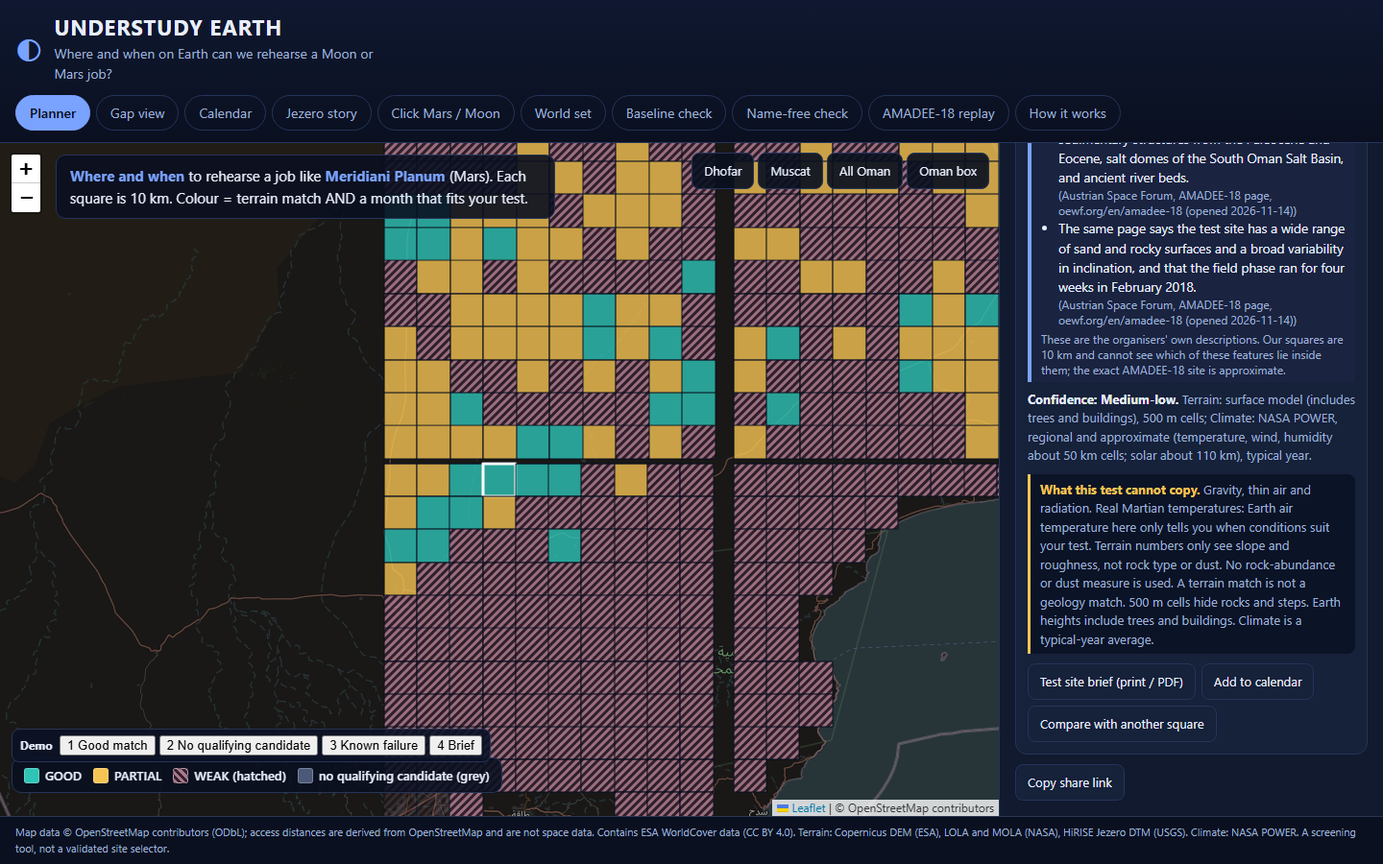
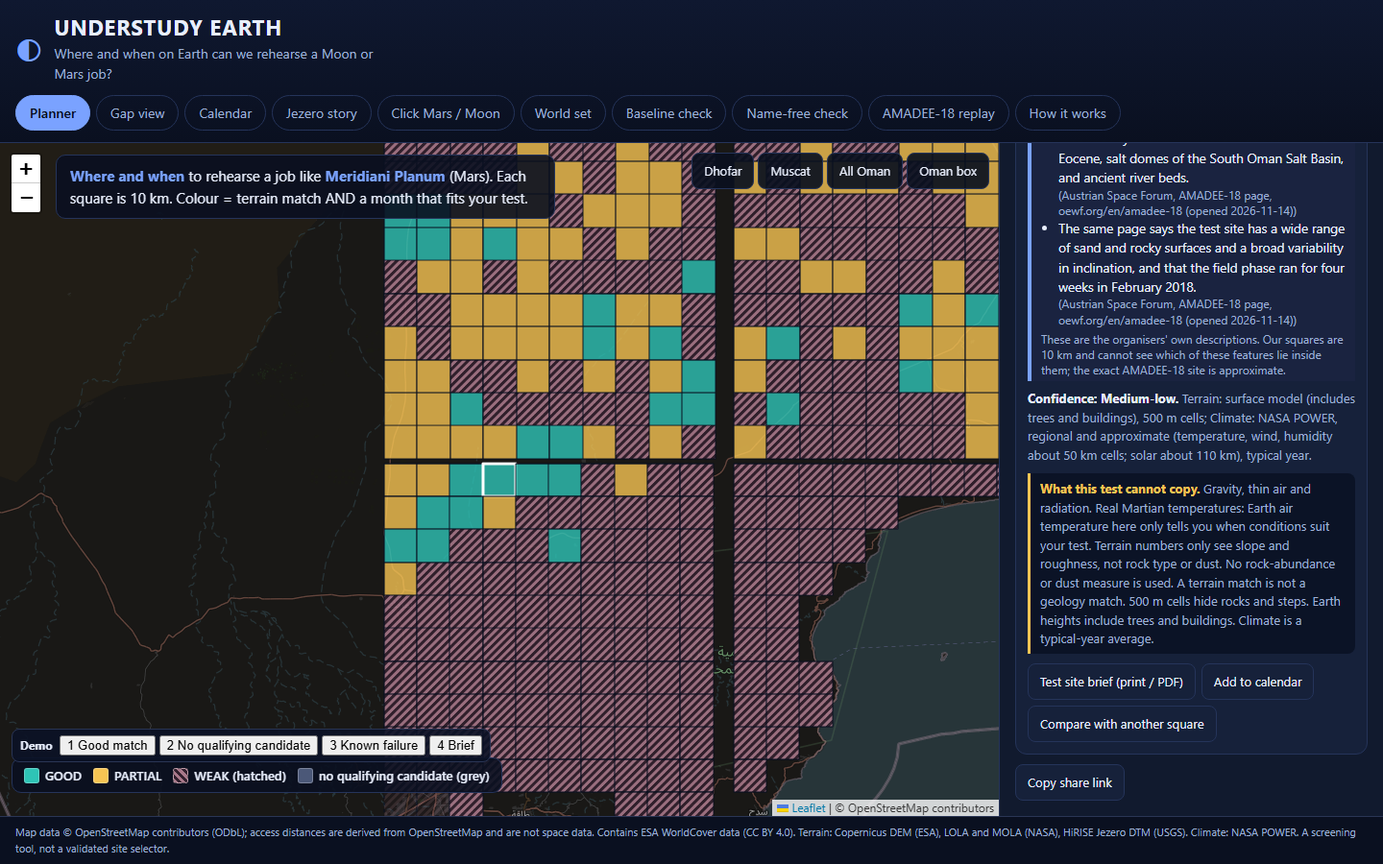
rename Oman to searched area where 90 m data is included, add Jezero verdict sentence, steep-ground caution on click, day-night swing as a scored test need

diff --git a/app/app.js b/app/app.js
@@ -1,17 +1,17 @@
 (function () {
   'use strict';
-  var GROUPS = { oman_muscat: 'Oman (Muscat area)', oman_dhofar: 'Oman (Dhofar)', oman90: 'Oman box, 90 m data (may include neighbouring land)', meteor_crater: 'Meteor Crater area, Arizona (outside Oman)', atacama: 'Atacama / Andes edge, Chile (outside Oman)' };
+  var GROUPS = { oman_muscat: 'Oman (Muscat area)', oman_dhofar: 'Oman (Dhofar)', oman90: 'Searched area, 90 m data (whole Oman box; includes land near the border)', meteor_crater: 'Meteor Crater area, Arizona (outside Oman)', atacama: 'Atacama / Andes edge, Chile (outside Oman)' };
   var N = window.UENeeds, D = {}, SC, map, rects = {}, sel = null, selB = null, cmpNext = false;
-  var st = { cal: [], split: false, noCand: false, nearest: null, weights: { terrain: 1, temp: 1, wind: 1, dry: 1, sun: 1, access: 0 }, target: null, mode: 'both', month: 'best', n: Object.assign({}, N.DEFAULT) };
+  var st = { cal: [], split: false, noCand: false, nearest: null, weights: { terrain: 1, temp: 1, wind: 1, dry: 1, sun: 1, swing: 1, access: 0 }, target: null, mode: 'both', month: 'best', n: Object.assign({}, N.DEFAULT) };
   var $ = function (id) { return document.getElementById(id); };
   var esc = function (s) { return String(s).replace(/[&<>"]/g, function (c) { return { '&': '&amp;', '<': '&lt;', '>': '&gt;', '"': '&quot;' }[c]; }); };
   var LABEL = { match: 'GOOD', partial: 'PARTIAL', gap: 'WEAK', none: 'NO CANDIDATE' };
   var GLABEL = { match: 'MATCH', partial: 'PARTIAL', gap: 'NO QUALIFYING CANDIDATE' };
   var SLOPE_REF = 'Observed reference points, not limits: Curiosity maximum tilt 25.34° through sol 2488 (Rankin et al., JPL, 2019); Opportunity tilt 32° on 2016-03-10 (JPL news, 2016-03-31); Perseverance climbed about 20° on slippery sand (JPL news, 2024-10-28). The slope limit here is user-set.';
   var POWER_NOTE = 'NASA POWER climatology v2.10.1, community RE, years 2001-2025. T2M_MAX and T2M_MIN (2 m air, °C), WS2M (wind, m/s), RH2M (%), ALLSKY_SFC_SW_DWN (sunlight, kWh/m²/day). Temperature, wind and humidity cells are about 50 km (0.5 x 0.625°); solar is about 110 km (1°). Regional and approximate.';
-  var AMADEE_NEEDS = { tlo: 5, thi: 35, wmin: 0, wmax: 12, rhmax: 100, smin: 4 };
+  var AMADEE_NEEDS = { tlo: 5, thi: 35, wmin: 0, wmax: 12, rhmax: 100, smin: 4, swmax: 60 };
   var COL = { match: '#2ec4b6', partial: '#f6c453', gap: '#ff5a5f' };
-  var FIELDS = ['tlo', 'thi', 'wmin', 'wmax', 'rhmax', 'smin', 'limit'];
+  var FIELDS = ['tlo', 'thi', 'wmin', 'wmax', 'rhmax', 'smin', 'swmax', 'limit'];
 
   function load(f, opt) { return fetch('data/' + f).then(function (r) { if (!r.ok) { if (opt) return null; throw new Error(f + ' ' + r.status); } return r.json(); }).catch(function (e) { if (opt) return null; throw e; }); }
   Promise.all([load('meta.json'), load('earth.json'), load('targets.json'), load('results.json'), load('second_check.json'), load('climate_power.json'), load('landcover.json', true), load('baseline.json', true), load('stability.json', true), load('notes.json', true), load('access.json', true), load('jezero.json', true)]).then(function (a) {
@@ -150,6 +150,7 @@
     $('wv').textContent = (n.wmin > 0 ? n.wmin : 0) + ' to ' + (n.wmax >= 12 ? '12+' : n.wmax) + ' m/s';
     $('rv').textContent = n.rhmax >= 100 ? 'not limited' : '≤ ' + n.rhmax + '%';
     $('sv').textContent = n.smin > 0 ? '≥ ' + n.smin + ' kWh/m²/day' : 'not limited';
+    $('swv').textContent = n.swmax < 60 ? '≤ ' + n.swmax + ' °C' : 'not limited';
     $('limval').textContent = n.limit + '°';
   }
 
@@ -188,7 +189,7 @@
 
   function renderAll() {
     recompute(); var t = st.target;
-    $('hook').innerHTML = '<b>Where and when</b> to rehearse a job like <b>' + esc(t.name) + '</b> (' + t.body + '). Each square is 10 km. ' + (st.noCand ? '<b>No qualifying candidate in Oman for this target:</b> squares are grey; the nearest one is outlined. ' : '') +
+    $('hook').innerHTML = '<b>Where and when</b> to rehearse a job like <b>' + esc(t.name) + '</b> (' + t.body + '). Each square is 10 km. ' + (st.noCand ? '<b>No qualifying candidate in the searched area for this target:</b> squares are grey; the nearest one is outlined. ' : '') +
       (st.noCand ? '' : st.mode === 'terrain' ? 'Colour = terrain match.' : (st.mode === 'needs' ? 'Colour = fit to your test needs.' : 'Colour = terrain match AND a month that fits your test.'));
     allSq().forEach(function (e) {
       var rc = rects[e.id]; if (!rc) return;
@@ -225,12 +226,12 @@
     var k0 = SC.gapTier(bo.d), kk = SC.gapTier(shown), improved = shown < bo.d;
     $('badge').textContent = GLABEL[kk]; $('badge').className = 'badge ' + (kk === 'gap' ? 'none' : kk);
     $('gcscore').textContent = 'top ' + Math.max(1, Math.round(bo.rank * 100)) + '%';
-    var txt = k0 === 'gap' ? 'No qualifying candidate in Oman for this target (searched area only, not all of Earth). Nearest square is outlined on the map.' : (k0 === 'partial' ? 'Oman is a partial match only.' : 'Oman has a strong terrain match (best fit among the squares we searched).');
-    var sn = stabOf(st.target); if (sn) txt += (sn.threshold_sensitive ? ' THRESHOLD-SENSITIVE: the tier changes with window size, cell size or threshold (' + sn.tiers_seen.map(function (k) { return GLABEL[k]; }).join(' / ') + '); ' : ' ROBUST: same tier in all 8 settings; ') + 'the best Oman square is closer than ' + sn.band_pct[0] + '-' + sn.band_pct[1] + '% of Earth-square pairs.';
-    if (extra.length && improved && kk !== k0) txt = 'Oman alone: ' + GLABEL[k0] + '. With the second site: ' + GLABEL[kk] + '.';
-    else if (extra.length) txt = 'The second site does not improve on Oman here.';
+    var txt = k0 === 'gap' ? 'No qualifying candidate in the searched area for this target (not all of Earth). Nearest square is outlined on the map.' : (k0 === 'partial' ? 'The searched area is a partial match only.' : 'The searched area has a strong terrain match (best fit among the squares we searched).');
+    var sn = stabOf(st.target); if (sn) txt += (sn.threshold_sensitive ? ' THRESHOLD-SENSITIVE: the tier changes with window size, cell size or threshold (' + sn.tiers_seen.map(function (k) { return GLABEL[k]; }).join(' / ') + '); ' : ' ROBUST: same tier in all 8 settings; ') + 'the best square in the searched area is closer than ' + sn.band_pct[0] + '-' + sn.band_pct[1] + '% of Earth-square pairs.';
+    if (extra.length && improved && kk !== k0) txt = 'Searched area alone: ' + GLABEL[k0] + '. With the second site: ' + GLABEL[kk] + '.';
+    else if (extra.length) txt = 'The second site does not improve on the searched area here.';
     $('gctext').textContent = txt;
-    var lines = ['Oman alone: ' + GLABEL[k0] + ' (distance ' + bo.d.toFixed(2) + ')'];
+    var lines = ['Searched area alone: ' + GLABEL[k0] + ' (distance ' + bo.d.toFixed(2) + ')'];
     extra.forEach(function (x) { lines.push(GROUPS[x.g] + ': ' + GLABEL[SC.gapTier(x.b.d)] + ' (distance ' + x.b.d.toFixed(2) + ') at ' + x.b.lat.toFixed(2) + ', ' + x.b.lon.toFixed(2)); });
     $('secondres').innerHTML = lines.map(esc).join('<br>') + '<br><small>Distance: lower is closer. MATCH below ' + D.meta.thr_match_dist.toFixed(2) + ', PARTIAL below ' + D.meta.thr_partial_dist.toFixed(2) + '.</small>';
   }
@@ -252,6 +253,7 @@
       if (k === 'temp') t = c.tmax[m] > n.thi ? 'day max ' + c.tmax[m].toFixed(0) + ' °C above ' + n.thi : 'night min ' + c.tmin[m].toFixed(0) + ' °C below ' + n.tlo;
       else if (k === 'wind') t = 'wind ' + c.wind[m].toFixed(1) + ' m/s outside ' + n.wmin + '-' + n.wmax;
       else if (k === 'dry') t = 'humidity ' + Math.round(c.rh[m]) + '% above ' + n.rhmax + '%';
+      else if (k === 'swing') t = 'day-night swing ' + (c.tmax[m] - c.tmin[m]).toFixed(0) + ' °C above ' + n.swmax + ' °C';
       else t = 'sunlight ' + c.srad[m].toFixed(1) + ' below ' + n.smin + ' kWh/m²/day';
       why.push(N.MON[m] + ': ' + t);
     }
@@ -303,7 +305,7 @@
   function verdictHtml(e) {
     var c = climate(e), m = e._best.length ? e._best[0] : e._fits.indexOf(Math.max.apply(null, e._fits));
     if (st.month !== 'best') m = +st.month;
-    var mf = N.monthFactors(c, m, st.n), f = { terrain: N.terrainFit(SC.distance(e, st.target), D.meta.thr_match_dist, D.meta.thr_partial_dist), temp: mf.temp, wind: mf.wind, dry: mf.dry, sun: mf.sun };
+    var mf = N.monthFactors(c, m, st.n), f = { terrain: N.terrainFit(SC.distance(e, st.target), D.meta.thr_match_dist, D.meta.thr_partial_dist), temp: mf.temp, wind: mf.wind, dry: mf.dry, sun: mf.sun, swing: mf.swing };
     var ac = accessOf(e); if (ac) f.access = Math.round(100 * (1 - Math.max(0, Math.min(1, (ac[0] - 5) / 45))));
     var v = N.fitVerdict(f, st.weights), cf = N.confidenceLevel(e.group.indexOf('oman') === 0, !!e.approx);
     var cls = v.overall >= 75 ? 'match' : (v.overall >= 50 ? 'partial' : 'gap');
@@ -348,7 +350,7 @@
     var second = '';
     var gt = SC.gapTier(bestOf(function (x) { return x.group.indexOf('oman') === 0; }).d);
     if (gt !== 'match') { var alt = bestOf(function (x) { return x.group.indexOf('oman') !== 0; }); if (alt) second = '<p><b>Second-site suggestion:</b> best outside square is ' + esc(GROUPS[alt.group]) + ' at ' + alt.lat.toFixed(2) + ', ' + alt.lon.toFixed(2) + ' (terrain: ' + GLABEL[SC.gapTier(alt.d)] + ').</p>'; }
-    var need = 'Air temperature ' + n.tlo + ' to ' + n.thi + ' °C; wind ' + n.wmin + ' to ' + (n.wmax >= 12 ? '12+' : n.wmax) + ' m/s; humidity ' + (n.rhmax >= 100 ? 'not limited' : '≤ ' + n.rhmax + '%') + '; sunlight ' + (n.smin > 0 ? '≥ ' + n.smin + ' kWh/m2/day' : 'not limited') + '.';
+    var need = 'Air temperature ' + n.tlo + ' to ' + n.thi + ' °C; wind ' + n.wmin + ' to ' + (n.wmax >= 12 ? '12+' : n.wmax) + ' m/s; humidity ' + (n.rhmax >= 100 ? 'not limited' : '≤ ' + n.rhmax + '%') + '; sunlight ' + (n.smin > 0 ? '≥ ' + n.smin + ' kWh/m2/day' : 'not limited') + '; day-night swing ' + (n.swmax < 60 ? '≤ ' + n.swmax + ' °C' : 'not limited') + '.';
     $('brief').innerHTML = '<div class="bar-top"><button data-act="print">Print / save as PDF</button><button data-act="closebrief">Close</button></div>' +
       '<h1>Test Site Brief</h1><p class="sub">Understudy Earth &middot; generated ' + new Date().toISOString().slice(0, 10) + ' &middot; Blue Ember</p>' +
       '<h2>Location</h2><p>' + esc(GROUPS[e.group]) + ', 10 km square centred at ' + e.lat.toFixed(3) + ', ' + e.lon.toFixed(3) + '.</p>' +
@@ -368,7 +370,7 @@
       var a = SC.gapTier(bo), b = SC.gapTier(ba);
       var sn = stabOf(t); rows += '<tr><td>' + esc(t.name) + (sn && sn.threshold_sensitive ? ' <span title="threshold-sensitive">&#9888;</span>' : '') + '<br><small>' + t.body + '</small></td><td><span class="chip ' + a + '">' + GLABEL[a] + '</span></td><td><span class="chip ' + b + '">' + GLABEL[b] + '</span>' + (b !== a ? ' &larr; second site helps' : '') + '</td></tr>';
     });
-    $('gaptable').innerHTML = '<table><tr><th>Target</th><th>Oman only</th><th>+ Meteor Crater, Atacama</th></tr>' + rows + '</table><p class="sub">NO QUALIFYING CANDIDATE = no square we searched is as close to the target as the closest 5% of Earth-square pairs are to each other. It says nothing about places we did not search. &#9888; = threshold-sensitive (tier changes with window size, cell size or threshold).</p>';
+    $('gaptable').innerHTML = '<table><tr><th>Target</th><th>Searched area only</th><th>+ Meteor Crater, Atacama</th></tr>' + rows + '</table><p class="sub">NO QUALIFYING CANDIDATE = no square we searched is as close to the target as the closest 5% of Earth-square pairs are to each other. It says nothing about places we did not search. &#9888; = threshold-sensitive (tier changes with window size, cell size or threshold).</p>';
   }
 
   function renderBlind() {
@@ -380,7 +382,7 @@
 
   function renderSecond() {
     var s = D.second, h = '<p class="sub">Slope recomputed by an independent code path (integer block means + Sobel, native reads): ' + s.rows.filter(function (r) { return r.pass; }).length + ' of ' + s.rows.length + ' windows agree (' + esc(s.tolerance) + ').</p>';
-    h += '<p class="sub">Leave-one-out sensitivity (targets in GAP, Oman only): ' + D.results.sensitivity.map(function (x) { return x.left_out + ': ' + x.oman_only.gap; }).join(', ') + '.</p>';
+    h += '<p class="sub">Leave-one-out sensitivity (targets in GAP, searched area only): ' + D.results.sensitivity.map(function (x) { return x.left_out + ': ' + x.oman_only.gap; }).join(', ') + '.</p>';
     $('second').innerHTML = h;
   }
 
@@ -431,9 +433,11 @@
     var om = ds.filter(function (x) { return x.e.group.indexOf('oman') === 0 && !masked(x.e); }), tier = SC.gapTier(om[0].d);
     var tb = function (list) { return '<table><tr><th>Square</th><th>Where</th><th>Distance</th><th></th></tr>' + list.map(function (x) { return '<tr><td class="mono">' + x.e.id + '</td><td>' + esc(GROUPS[x.e.group]) + ' ' + x.e.lat.toFixed(2) + ', ' + x.e.lon.toFixed(2) + '</td><td class="mono">' + x.d.toFixed(3) + '</td><td><button data-sq="' + x.e.id + '">Show</button></td></tr>'; }).join('') + '</table>'; };
     var keep = st.target; st.target = w; recompute(); var vh = verdictHtml(om[0].e); st.target = keep; recompute();
-    $('skyres').innerHTML = '<h3>' + esc(label) + '</h3>' + (extra || '') + '<table>' + rows.map(function (r) { return '<tr><th>' + esc(r[0]) + '</th><td>' + esc(r[1]) + '</td></tr>'; }).join('') + '</table>' +
-      '<p><span class="chip ' + tier + '">' + GLABEL[tier] + '</span> best Oman square: distance ' + om[0].d.toFixed(3) + ' (match below ' + D.meta.thr_match_dist.toFixed(2) + ', partial below ' + D.meta.thr_partial_dist.toFixed(2) + '). Best fit among the squares searched, not a global best. Not checked for stability.</p>' +
-      '<h4>Closest Oman squares</h4>' + tb(om.slice(0, 5)) + '<h4>Closest squares anywhere in our set</h4>' + tb(ds.slice(0, 3)) + vh +
+    var steepWarn = (w.slope_p90 > 8 || w.relief_m > 300) ?
+      '<p class="note">Caution: this window has steep or uneven ground (90th-pct slope ' + w.slope_p90.toFixed(1) + '°, relief ' + Math.round(w.relief_m) + ' m in 10 km). On steep ground the nearest precomputed window can read very differently from the exact spot clicked, sometimes by several degrees of slope (for example, Jezero\'s window-average slope is 4.4° while a finer 1 m check nearby reads 0.57°). Treat this result as a rough area reading, not the exact point.</p>' : '';
+    $('skyres').innerHTML = '<h3>' + esc(label) + '</h3>' + steepWarn + (extra || '') + '<table>' + rows.map(function (r) { return '<tr><th>' + esc(r[0]) + '</th><td>' + esc(r[1]) + '</td></tr>'; }).join('') + '</table>' +
+      '<p><span class="chip ' + tier + '">' + GLABEL[tier] + '</span> best square in the searched area: distance ' + om[0].d.toFixed(3) + ' (match below ' + D.meta.thr_match_dist.toFixed(2) + ', partial below ' + D.meta.thr_partial_dist.toFixed(2) + '). Best fit among the squares searched, not a global best. Not checked for stability.</p>' +
+      '<h4>Closest squares in the searched area</h4>' + tb(om.slice(0, 5)) + '<h4>Closest squares anywhere in our set</h4>' + tb(ds.slice(0, 3)) + vh +
       '<div class="conf"><b>Confidence: Low.</b> ' + esc(conf) + '</div><div class="limits"><b>What this cannot see.</b> Terrain numbers only see slope and roughness, not rock type or dust. Gravity, air and radiation are not copied. 500 m cells hide rocks and steps; Earth heights are a surface model. A terrain match is not a geology match.</div>';
   }
   function renderSky() {
@@ -483,7 +487,7 @@
     var t = st.target, items = [];
     D.world.forEach(function (x) { var d = Math.min.apply(null, x.windows.map(function (w) { return SC.distance(w, t); })); items.push({ name: x.name, kind: x.kind, lat: x.lat, lon: x.lon, d: d, n: x.windows.length, fine: false }); });
     [['meteor_crater', 'Meteor Crater area, Arizona', 'impact crater', 35.03, -111.02], ['atacama', 'Atacama tile centre, Chile', 'desert', -24.5, -69.5]].forEach(function (g) { var d = Math.min.apply(null, D.earth.filter(function (e) { return e.group === g[0]; }).map(function (e) { return SC.distance(e, t); })); items.push({ name: g[1], kind: g[2], lat: g[3], lon: g[4], d: d, n: 0, fine: true }); });
-    var om = bestOf(function (e) { return e.group.indexOf('oman') === 0; }); items.push({ name: 'Oman (30 m squares; click to open the fine view)', kind: 'home', lat: 20.5, lon: 56.5, d: om.d, n: 0, fine: true, oman: true });
+    var om = bestOf(function (e) { return e.group.indexOf('oman') === 0; }); items.push({ name: 'Searched area (30 m and 90 m squares; click to open the fine view)', kind: 'home', lat: 20.5, lon: 56.5, d: om.d, n: 0, fine: true, oman: true });
     wmap._layer.clearLayers();
     items.forEach(function (x) {
       var k = SC.gapTier(x.d), m = L.circleMarker([x.lat, x.lon], { radius: x.oman ? 11 : 7, color: '#fff', weight: x.fine ? 3 : 1, fillColor: k === 'gap' ? '#a8788a' : COL[k], fillOpacity: 0.9, dashArray: x.fine ? null : '3 3' }).addTo(wmap._layer);
@@ -500,15 +504,17 @@
     var w = J.windows[0], t = D.targets.filter(function (x) { return x.id === J.source_mola_target; })[0];
     var sq = function (list) { return '<table><tr><th>Square</th><th>Where</th><th>Distance</th><th></th></tr>' + list.map(function (x) { return '<tr><td class="mono">' + x.id + '</td><td>' + esc(GROUPS[x.group]) + ' ' + x.lat.toFixed(2) + ', ' + x.lon.toFixed(2) + '</td><td class="mono">' + x.dist + '</td><td><button data-jz="' + x.id + '">Show</button></td></tr>'; }).join('') + '</table>'; };
     var best = w.top500_oman[0];
-    $('jez').innerHTML = '<p class="sub"><b>Practise the Perseverance Jezero drive in Oman?</b> A finer-scale check than the 463 m global map. It is separate from the main method and one window only.</p>' +
+    var jverdict = GLABEL[SC.gapTier(best.dist)] + ': ' + best.id + ' scores ' + best.dist + ' against Jezero (lower is closer; threshold ' + D.meta.thr_match_dist.toFixed(3) + '; best in the searched area ' + best.dist + '; closest anywhere in our set ' + w.top500[0].dist + ' at ' + GROUPS[w.top500[0].group] + '); the 30 m check below has no calibrated threshold, so it is a ranking only, not a pass or fail.';
+    $('jez').innerHTML = '<p class="sub"><b>Practise the Perseverance Jezero drive in the searched area?</b> A finer-scale check than the 463 m global map. It is separate from the main method and one window only.</p>' +
+      '<p class="best">' + esc(jverdict) + '</p>' +
       '<div class="twins"><figure><img src="data/relief/JEZ0.png" alt="Shaded relief of the Jezero 10 km window" width="64" height="64"><div class="bar5"><i></i><span>5 km</span></div><figcaption>Jezero delta region, 10 km window<br>native 1 m (HiRISE-based DTM), area-averaged to the picture grid</figcaption></figure>' +
-      '<figure><img src="data/relief/' + best.id + '.png" alt="Shaded relief of the closest Oman square" width="64" height="64"><div class="bar5"><i></i><span>5 km</span></div><figcaption>Closest Oman square (500 m method)<br>native 30 m (Copernicus surface model)</figcaption></figure></div>' +
+      '<figure><img src="data/relief/' + best.id + '.png" alt="Shaded relief of the closest square in the searched area" width="64" height="64"><div class="bar5"><i></i><span>5 km</span></div><figcaption>Closest square in the searched area (500 m method)<br>native 30 m (Copernicus surface model)</figcaption></figure></div>' +
       '<table><tr><th></th><th>Slope median / 90th pct</th><th>Roughness (median)</th></tr>' +
-      '<tr><th>Jezero window, 500 m cells (same method as Oman)</th><td>' + w.feat500.slope_p50.toFixed(2) + '° / ' + w.feat500.slope_p90.toFixed(2) + '°</td><td>' + w.feat500.rough_med.toFixed(2) + ' m</td></tr>' +
+      '<tr><th>Jezero window, 500 m cells (same method as the searched area)</th><td>' + w.feat500.slope_p50.toFixed(2) + '° / ' + w.feat500.slope_p90.toFixed(2) + '°</td><td>' + w.feat500.rough_med.toFixed(2) + ' m</td></tr>' +
       '<tr><th>Jezero 463 m global map (target "' + esc(t.name) + '")</th><td>' + t.slope_p50.toFixed(2) + '° / ' + t.slope_p90.toFixed(2) + '°</td><td>' + t.rough_med.toFixed(2) + ' m</td></tr>' +
       '<tr><th>Jezero window, 30 m cells (finer check)</th><td>' + w.feat30.slope_p50.toFixed(2) + '° / ' + w.feat30.slope_p90.toFixed(2) + '°</td><td>' + w.feat30.rough_med.toFixed(2) + ' m; ' + Math.round(w.feat30.steep_share * 100) + '% of cells above 10°</td></tr></table>' +
-      '<h3>Closest Oman squares, main method (500 m cells)</h3>' + sq(w.top500_oman) + '<p class="sub">Best distance ' + w.top500_oman[0].dist + ' (match below ' + D.meta.thr_match_dist.toFixed(2) + ', partial below ' + D.meta.thr_partial_dist.toFixed(2) + '): tier ' + GLABEL[SC.gapTier(w.top500_oman[0].dist)] + ' for the Oman squares (the closest square anywhere is in the Meteor Crater area).</p>' +
-      '<h3>Closest Oman squares, 30 m check (slope, steepness, roughness at 30 m)</h3>' + sq(w.top30_oman) + '<p class="sub">The 30 m check has no calibrated threshold, so it gives a ranking only.</p>' +
+      '<h3>Closest squares in the searched area, main method (500 m cells)</h3>' + sq(w.top500_oman) + '<p class="sub">Best distance ' + w.top500_oman[0].dist + ' (match below ' + D.meta.thr_match_dist.toFixed(2) + ', partial below ' + D.meta.thr_partial_dist.toFixed(2) + '): tier ' + GLABEL[SC.gapTier(w.top500_oman[0].dist)] + ' for the searched area (the closest square anywhere is in the Meteor Crater area).</p>' +
+      '<h3>Closest squares in the searched area, 30 m check (slope, steepness, roughness at 30 m)</h3>' + sq(w.top30_oman) + '<p class="sub">The 30 m check has no calibrated threshold, so it gives a ranking only.</p>' +
       '<div class="limits"><b>Limits.</b> ' + esc(J.note) + ' Only one 10 km window had at most 2% empty cells (the data footprint is slanted). Earth heights are a surface model (trees, buildings); Mars heights are bare ground. 30 m cells still hide rocks and steps that matter to a rover. A terrain match is not a geology match. Source: USGS Astrogeology Mars 2020 TRN HiRISE DTM mosaic of Jezero (see REFERENCES).</div>';
     $('jez').onclick = function (ev) { var id = ev.target.getAttribute('data-jz'); if (!id) return; var e = D.earth.filter(function (x) { return x.id === id; })[0]; if (!e) return; document.querySelector('.tab[data-view=map]').click(); map.setView([e.lat, e.lon], 9); sel = e; renderAll(); };
   }
@@ -527,7 +533,7 @@
     h += '</table><p class="sub">✓ = better than 95% of random draws (this count moves by one or so with the random draws; the medians do not).</p>';
     if (D.stab) {
       var rows = D.stab.summary.slice().sort(function (a, b) { return (a.threshold_sensitive ? 1 : 0) - (b.threshold_sensitive ? 1 : 0); });
-      h += '<h3>Stability: window 5/10/20 km, cell 500 m/1 km, thresholds 5-20% vs 10-30%</h3><table><tr><th>Target</th><th>Main tier</th><th>Tier range over 8 settings</th><th>Best Oman square closer than</th><th></th></tr>';
+      h += '<h3>Stability: window 5/10/20 km, cell 500 m/1 km, thresholds 5-20% vs 10-30%</h3><table><tr><th>Target</th><th>Main tier</th><th>Tier range over 8 settings</th><th>Best square in the searched area closer than</th><th></th></tr>';
       rows.forEach(function (x) {
         var res = D.results.gap.filter(function (g) { return g.name === x.target; })[0], bt = res ? res.tier_oman : x.base_tier;
         h += '<tr><td>' + esc(x.target) + '</td><td><span class="chip ' + bt + '">' + GLABEL[bt] + '</span></td><td>' + x.tiers_seen.map(function (k) { return GLABEL[k]; }).join(', ') + '</td><td class="mono">' + x.band_pct[0] + '-' + x.band_pct[1] + '% of pairs</td><td><b>' + (x.threshold_sensitive ? 'threshold-sensitive' : 'robust') + '</b></td></tr>';

diff --git a/app/needs.js b/app/needs.js
@@ -2,15 +2,15 @@
 (function (root) {
   var MON = ['Jan', 'Feb', 'Mar', 'Apr', 'May', 'Jun', 'Jul', 'Aug', 'Sep', 'Oct', 'Nov', 'Dec'];
   // Margins over which a factor fades from fully met to not met. OUR ASSUMPTION, not a mission requirement.
-  var MARGIN = { temp: 5, wind: 1.5, rh: 15, sun: 1 };
-  // Ready-made tests. All numbers are OUR ASSUMPTION (no mission source); labelled in the app.
+  var MARGIN = { temp: 5, wind: 1.5, rh: 15, sun: 1, swing: 5 };
+  // Ready-made tests. All numbers are OUR ASSUMPTION (no mission source); labelled in the app. swmax 60 = effectively not limited.
   var PRESETS = {
-    rover: { label: 'Rover test', tlo: 0, thi: 40, wmin: 0, wmax: 10, rhmax: 100, smin: 4, limit: 15 },
-    instrument: { label: 'Instrument test', tlo: 5, thi: 35, wmin: 0, wmax: 8, rhmax: 60, smin: 5, limit: 15 },
-    walking: { label: 'Walking test', tlo: 5, thi: 35, wmin: 0, wmax: 7, rhmax: 100, smin: 3, limit: 15 },
-    cold: { label: 'Cold test', tlo: -30, thi: 10, wmin: 0, wmax: 12, rhmax: 100, smin: 0, limit: 15 }
+    rover: { label: 'Rover test', tlo: 0, thi: 40, wmin: 0, wmax: 10, rhmax: 100, smin: 4, swmax: 60, limit: 15 },
+    instrument: { label: 'Instrument test', tlo: 5, thi: 35, wmin: 0, wmax: 8, rhmax: 60, smin: 5, swmax: 25, limit: 15 },
+    walking: { label: 'Walking test', tlo: 5, thi: 35, wmin: 0, wmax: 7, rhmax: 100, smin: 3, swmax: 60, limit: 15 },
+    cold: { label: 'Cold test', tlo: -30, thi: 10, wmin: 0, wmax: 12, rhmax: 100, smin: 0, swmax: 60, limit: 15 }
   };
-  var DEFAULT = { tlo: 0, thi: 40, wmin: 0, wmax: 12, rhmax: 100, smin: 4, limit: 15 };
+  var DEFAULT = { tlo: 0, thi: 40, wmin: 0, wmax: 12, rhmax: 100, smin: 4, swmax: 60, limit: 15 };
 
   function clamp01(x) { return x < 0 ? 0 : (x > 1 ? 1 : x); }
 
@@ -19,7 +19,8 @@
     var p = [
       (c.tmax[m] - n.thi) / MARGIN.temp, (n.tlo - c.tmin[m]) / MARGIN.temp,
       (n.wmin - c.wind[m]) / MARGIN.wind, (c.wind[m] - n.wmax) / MARGIN.wind,
-      (c.rh[m] - n.rhmax) / MARGIN.rh, (n.smin - c.srad[m]) / MARGIN.sun
+      (c.rh[m] - n.rhmax) / MARGIN.rh, (n.smin - c.srad[m]) / MARGIN.sun,
+      ((c.tmax[m] - c.tmin[m]) - n.swmax) / MARGIN.swing
     ];
     return 100 * (1 - clamp01(Math.max.apply(null, p)));
   }
@@ -56,8 +57,8 @@
     Object.keys(PRESETS).forEach(function (k) {
       var re = new RegExp('\\b' + k + '(?: test)?\\b');
       if (re.test(t) || (k === 'walking' && /\b(eva|walk)/.test(t))) {
-        var p = PRESETS[k]; ['tlo', 'thi', 'wmin', 'wmax', 'rhmax', 'smin', 'limit'].forEach(function (f) { n[f] = p[f]; });
-        said.push({ field: 'preset', text: p.label + ' preset (our assumption): ' + p.tlo + ' to ' + p.thi + ' \u00b0C, wind ' + p.wmin + '-' + p.wmax + ' m/s, humidity up to ' + p.rhmax + '%, sun at least ' + p.smin + ' kWh/m\u00b2/day' });
+        var p = PRESETS[k]; ['tlo', 'thi', 'wmin', 'wmax', 'rhmax', 'smin', 'swmax', 'limit'].forEach(function (f) { n[f] = p[f]; });
+        said.push({ field: 'preset', text: p.label + ' preset (our assumption): ' + p.tlo + ' to ' + p.thi + ' \u00b0C, wind ' + p.wmin + '-' + p.wmax + ' m/s, humidity up to ' + p.rhmax + '%, sun at least ' + p.smin + ' kWh/m\u00b2/day, swing up to ' + p.swmax + ' \u00b0C' });
         t = t.replace(re, ' ').replace(/\b(eva|walk\w*)\b/, ' ');
       }
     });
@@ -77,6 +78,7 @@
     take(/\b(?:sunny|bright)\b/, function () { n.smin = 6; said.push({ field: 'sun', text: 'sunny: at least 6 kWh/m\u00b2/day' }); });
     take(/\bcold\b/, function () { if (!said.some(function (x) { return x.field === 'temp'; })) { n.tlo = -30; n.thi = 10; said.push({ field: 'temp', text: 'cold: -30 to 10 \u00b0C' }); } });
     take(/\b(?:hot|warm)\b/, function () { if (!said.some(function (x) { return x.field === 'temp'; })) { n.tlo = 10; n.thi = 45; said.push({ field: 'temp', text: 'hot: 10 to 45 \u00b0C' }); } });
+    take(new RegExp('swing\\s*(?:below|under|up to|at most|max(?:imum)?)\\s*' + NUM), function (mm) { n.swmax = Math.max(5, Math.min(60, +mm[1])); said.push({ field: 'swing', text: 'day-night swing at most ' + n.swmax + ' \u00b0C' }); });
     var unknown = t.replace(/[0-9.,%\u00b0:;()\/-]+/g, ' ').split(/\s+/).filter(function (w) { return w && !STOP.test(w); });
     var refused = !said.length;
     return { needs: refused ? Object.assign({}, base || DEFAULT) : n, said: said, unknown: unknown, refused: refused };
@@ -89,7 +91,8 @@
       temp: f(Math.max((c.tmax[m] - n.thi) / MARGIN.temp, (n.tlo - c.tmin[m]) / MARGIN.temp)),
       wind: f(Math.max((n.wmin - c.wind[m]) / MARGIN.wind, (c.wind[m] - n.wmax) / MARGIN.wind)),
       dry: f((c.rh[m] - n.rhmax) / MARGIN.rh),
-      sun: f((n.smin - c.srad[m]) / MARGIN.sun)
+      sun: f((n.smin - c.srad[m]) / MARGIN.sun),
+      swing: f(((c.tmax[m] - c.tmin[m]) - n.swmax) / MARGIN.swing)
     };
   }
   // Terrain fit 0..100 from the distance to the target: 100 inside the match threshold, 0 at twice the partial threshold.
@@ -97,7 +100,7 @@
     if (d <= thrMatch) return 100;
     var top = 2 * thrPartial; return Math.round(100 * (1 - clamp01((d - thrMatch) / (top - thrMatch))));
   }
-  var FACTOR_NAMES = { terrain: 'Terrain', temp: 'Temperature', wind: 'Wind', dry: 'Dryness', sun: 'Sunlight', access: 'Access (OSM)' };
+  var FACTOR_NAMES = { terrain: 'Terrain', temp: 'Temperature', wind: 'Wind', dry: 'Dryness', sun: 'Sunlight', swing: 'Day-night swing', access: 'Access (OSM)' };
   // Overall fit = weighted mean of the factors with weight > 0. Weights default to 1 (user adjustable).
   function fitVerdict(factors, weights) {
     var keys = Object.keys(factors), sw = 0, sum = 0, worst = null;

diff --git a/tests/check_needs.js b/tests/check_needs.js
@@ -2,7 +2,7 @@ const N = require('../app/needs.js'); const assert = require('assert');
 // synthetic climate: Jan mild, Jul too hot
 const c = { tmax: Array(12).fill(30), tmin: Array(12).fill(15), wind: Array(12).fill(3), rh: Array(12).fill(40), srad: Array(12).fill(6) };
 c.tmax[6] = 45;
-const n = { tlo: 5, thi: 35, wmin: 0, wmax: 12, rhmax: 100, smin: 0 };
+const n = { tlo: 5, thi: 35, wmin: 0, wmax: 12, rhmax: 100, smin: 0, swmax: 60 };
 assert.strictEqual(N.monthFit(c, 0, n), 100);                        // inside the window
 assert.strictEqual(N.monthFit(c, 6, n), 0);                          // 10 C over, margin 5 -> 0
 assert.strictEqual(Math.round(N.monthFit(c, 0, { ...n, thi: 28 })), 60); // 2 C over of 5 margin
@@ -17,6 +17,8 @@ const r1 = N.parseSentence('build me a spaceship', N.DEFAULT); assert.strictEqua
 const r2 = N.parseSentence('wind below 5 m/s, humidity below 30%, sun at least 5, between 10 and 25 degrees, banana', N.DEFAULT); assert.strictEqual(r2.needs.wmax, 5); assert.strictEqual(r2.needs.rhmax, 30); assert.strictEqual(r2.needs.smin, 5); assert.strictEqual(r2.needs.tlo, 10); assert.strictEqual(r2.needs.thi, 25); assert.ok(r2.unknown.indexOf('banana') >= 0);
 assert.strictEqual(N.worse('match', 'gap'), 'gap');
 const mf = N.monthFactors(c, 6, n); assert.strictEqual(mf.temp, 0); assert.strictEqual(mf.sun, 100);
+assert.strictEqual(mf.swing, 100); // tmax-tmin = 15 C, well under swmax 60
+assert.strictEqual(N.monthFactors(c, 0, { ...n, swmax: 10 }).swing, 0); // tmax-tmin = 15 C, 5 C over a 10 C limit, margin 5 -> 0
 assert.strictEqual(N.terrainFit(0.05, 0.081, 0.245), 100); assert.strictEqual(N.terrainFit(0.49, 0.081, 0.245), 0);
 const v = N.fitVerdict({ terrain: 100, temp: 100, wind: 100, sun: 40 }, null); assert.strictEqual(v.overall, 85); assert.strictEqual(v.label, 'Strong fit'); assert.strictEqual(v.worst, 'sun');
 assert.strictEqual(N.fitVerdict({ terrain: 100, sun: 0 }, { terrain: 3, sun: 1 }).overall, 75);

diff --git a/app/index.html b/app/index.html
@@ -58,6 +58,8 @@
           <span class="two"><input type="range" id="wmin" min="0" max="12" step="0.5" value="0"><input type="range" id="wmax" min="0" max="12" step="0.5" value="12"></span></label>
         <label>Dryness (max humidity): <b id="rv" class="mono"></b><input type="range" id="rhmax" min="10" max="100" step="5" value="100"></label>
         <label>Sunlight (min per day): <b id="sv" class="mono"></b><input type="range" id="smin" min="0" max="8" step="0.5" value="0"></label>
+        <label>Day-night air temperature swing (max tolerated): <b id="swv" class="mono"></b><input type="range" id="swmax" min="5" max="60" step="1" value="60">
+          <small>NASA POWER day max minus night min; a test need, not a terrain match. Moon and Mars surface swings are far larger than Earth air swings, so this checks your test's tolerance, not a target match.</small></label>
         <label>Slope limit (user-set, not a safe driving limit): <b id="limval" class="mono">15&deg;</b><input type="range" id="limit" min="5" max="30" step="0.5" value="15">
           <small id="limsrc"></small></label>
         <small id="assume">Test-need numbers are the user's choice or <b>our assumption</b>; they are not mission requirements. Earth temperatures are not Mars or Moon temperatures.</small>

diff --git a/pipeline/meteomatics.py b/pipeline/meteomatics.py
@@ -1,19 +1,24 @@
-"""PRIVATE cross-check against the Meteomatics Weather API. Run on the owner's laptop only, never from the browser.
+"""Cross-check against the Meteomatics Weather API, pulled under the free access Meteomatics grants to
+NASA Space Apps Challenge participants (challenge page, sign-up form; see docs/REFERENCES.md for the exact wording and
+the owner's decision on publishing). Run on the owner's laptop only, never from the browser.
 Credentials come from the environment variables METEOMATICS_USER and METEOMATICS_PASSWORD (never stored in the repo or in logs).
-Every response is saved raw in data/meteomatics (git-ignored) so the work survives if access ends. Monthly means go to
-data/meteomatics_monthly.json (git-ignored) and a comparison with NASA POWER to data/meteomatics_compare.txt (git-ignored).
-Nothing from this script is read by the app or committed: the terms do not clearly allow publishing derived values (docs/REFERENCES.md).
+Every raw response is saved in data/meteomatics (git-ignored) so the work survives if access ends. Monthly means go to
+data/meteomatics_monthly.json (git-ignored, full detail) AND a small public derived file app/data/meteomatics.json
+(point, month, variable, value, unit, pull date) that the app may show with attribution.
 Request pattern (verified in the getting-started page): api.meteomatics.com/<start>--<end>:<step>/<parameters>/<lat,lon>/json.
-Parameter names other than t_2m:C, wind_speed_10m:ms and precip_1h:mm are UNVERIFIED; failures are printed and the run continues."""
-import base64, calendar, json, os, sys, time, urllib.request, urllib.error
+Parameter names verified against the live API on 2026-11-15 (see docs/REFERENCES.md); global_rad_24h:kWh was refused (404)
+and replaced with sunshine_duration_24h:min, which the API accepted."""
+import base64, calendar, json, os, sys, time, urllib.request, urllib.error, datetime
 ROOT = os.path.abspath(os.path.join(os.path.dirname(__file__), ".."))
 RAW = os.path.join(ROOT, "data", "meteomatics"); os.makedirs(RAW, exist_ok=True)
 POINTS = {"amadee_marmul": (18.19, 55.23), "salalah": (17.02, 54.09), "thumrait": (17.67, 54.03), "muscat": (23.59, 58.41),
           "samail": (23.30, 57.99), "nizwa": (22.93, 57.53), "sur": (22.57, 59.53), "duqm": (19.66, 57.71), "sohar": (24.35, 56.71),
           "mahout": (20.42, 58.88), "ibri": (23.22, 56.52), "khasab": (26.18, 56.25)}
-# (name, parameter): daily values where possible. UNVERIFIED names are tried and skipped if the API refuses them.
-PARAMS = ["t_max_2m_24h:C", "t_min_2m_24h:C", "wind_speed_10m:ms", "relative_humidity_2m:p", "global_rad_24h:kWh", "precip_24h:mm"]
-YEARS = list(range(2015, 2025))
+# Verified live against the API on 2026-11-15 (see docs/REFERENCES.md).
+PARAMS = ["t_max_2m_24h:C", "t_min_2m_24h:C", "wind_speed_10m:ms", "relative_humidity_2m:p", "sunshine_duration_24h:min", "precip_24h:mm"]
+UNITS = {"t_max_2m_24h:C": "C", "t_min_2m_24h:C": "C", "wind_speed_10m:ms": "m/s", "relative_humidity_2m:p": "%",
+         "sunshine_duration_24h:min": "min/day", "precip_24h:mm": "mm/day"}
+YEARS = list(range(2019, 2025))
 
 def get(url, user, pw):
     req = urllib.request.Request(url, headers={"Authorization": "Basic " + base64.b64encode((user + ":" + pw).encode()).decode()})
@@ -49,8 +54,20 @@ def main():
                     acc[int(r["date"][5:7]) - 1].append(r["value"])
             except Exception: pass
         monthly.setdefault(name, {})[par] = [round(sum(v) / len(v), 2) if v else None for v in acc.values()]
-    json.dump({"saved": time.strftime("%Y-%m-%d"), "monthly": monthly}, open(os.path.join(ROOT, "data", "meteomatics_monthly.json"), "w"))
-    print("saved monthly values for", len(monthly), "points (local only)")
+    today = time.strftime("%Y-%m-%d")
+    json.dump({"saved": today, "monthly": monthly}, open(os.path.join(ROOT, "data", "meteomatics_monthly.json"), "w"))
+    # small public derived file for the app: only points with complete data for every tried parameter
+    points_out = {}
+    for name, (lat, lon) in POINTS.items():
+        vals = monthly.get(name, {})
+        if not vals: continue
+        points_out[name] = {"lat": lat, "lon": lon, **{p: vals[p] for p in PARAMS if p in vals and vals[p]}}
+    public = {
+        "source": "Meteomatics Weather API, free access for NASA Space Apps Challenge 2026 participants",
+        "attribution": "Weather data by Meteomatics (meteomatics.com), accessed via NASA Space Apps Challenge participant access",
+        "saved": today, "years": [YEARS[0], YEARS[-1]], "units": UNITS, "points": points_out}
+    json.dump(public, open(os.path.join(ROOT, "app", "data", "meteomatics.json"), "w"), separators=(",", ":"))
+    print("saved monthly values for", len(monthly), "points; public file has", len(points_out), "points")
     return 0
 
 if __name__ == "__main__":

diff --git a/tests/run_browser.py b/tests/run_browser.py
@@ -48,7 +48,7 @@ try:
             try: pg.wait_for_selector("#skyres h3", timeout=15000)
             except Exception: print("SKY DEBUG", pg.evaluate("(function(){var e=document.elementFromPoint(%f,%f);return e.tagName+'#'+e.id+'.'+e.className})()" % (bb["x"] + bb["width"] * 0.714, bb["y"] + bb["height"] * 0.35)), errs[-3:], pg.inner_text("#skyres")[:200], pg.evaluate("document.getElementById('v-sky').className"), bb); raise
             pg.wait_for_timeout(500)
-            assert "Mars near" in pg.inner_text("#skyres") and "coarse 463 m" in pg.inner_text("#skyres").lower() and "Closest Oman squares" in pg.inner_text("#skyres") and "Best fit for your test" in pg.inner_text("#skyres")
+            assert "Mars near" in pg.inner_text("#skyres") and "coarse 463 m" in pg.inner_text("#skyres").lower() and "Closest squares in the searched area" in pg.inner_text("#skyres") and "Best fit for your test" in pg.inner_text("#skyres")
             pg.click("#skytabs button[data-body=moon]"); pg.wait_for_timeout(1500); pg.locator("#moonc").scroll_into_view_if_needed(); cb = pg.locator("#moonc").bounding_box(); pg.mouse.click(cb["x"] + cb["width"] * 0.5, cb["y"] + cb["height"] * 0.5); pg.wait_for_timeout(2000); assert "Moon near" in pg.inner_text("#skyres") and "south pole" in pg.inner_text("#skyres")
             pg.mouse.click(cb["x"] + 2, cb["y"] + 2); pg.wait_for_timeout(300); assert "Unknown" in pg.inner_text("#skyres")
             pg.click(".tab[data-view=world]"); pg.wait_for_timeout(2500); assert "not every place on Earth" in pg.inner_text("#v-world") and pg.locator("#worldlist tr").count() > 25
